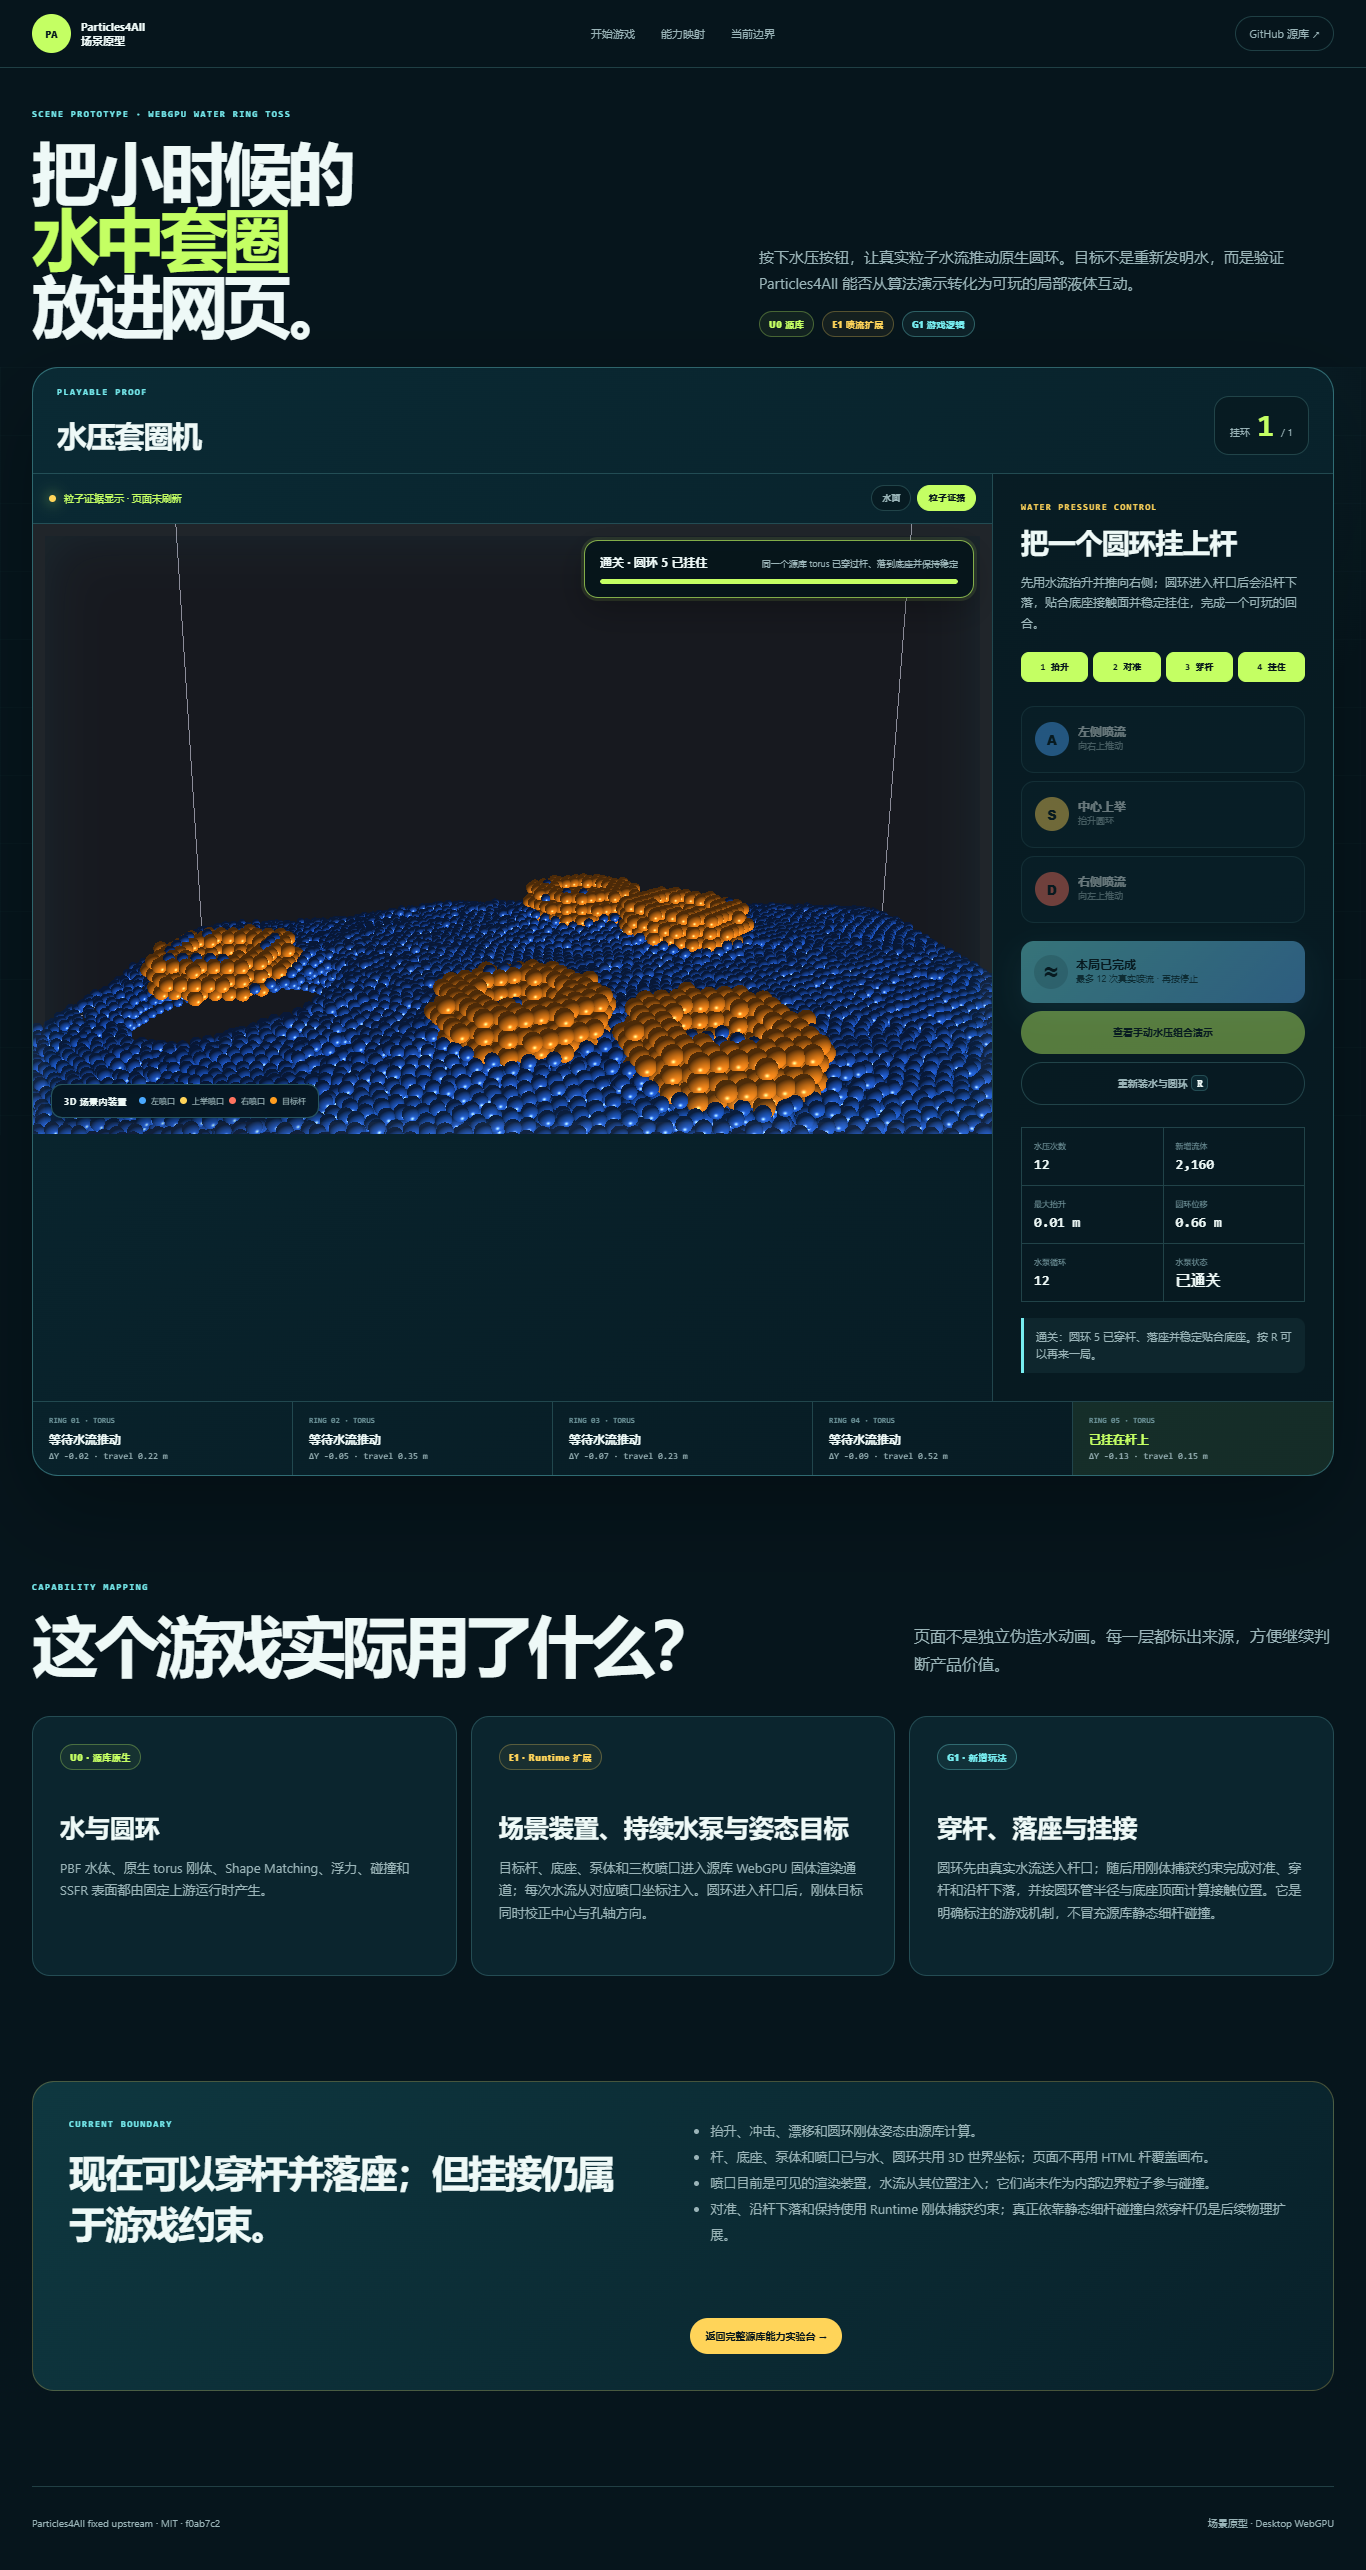
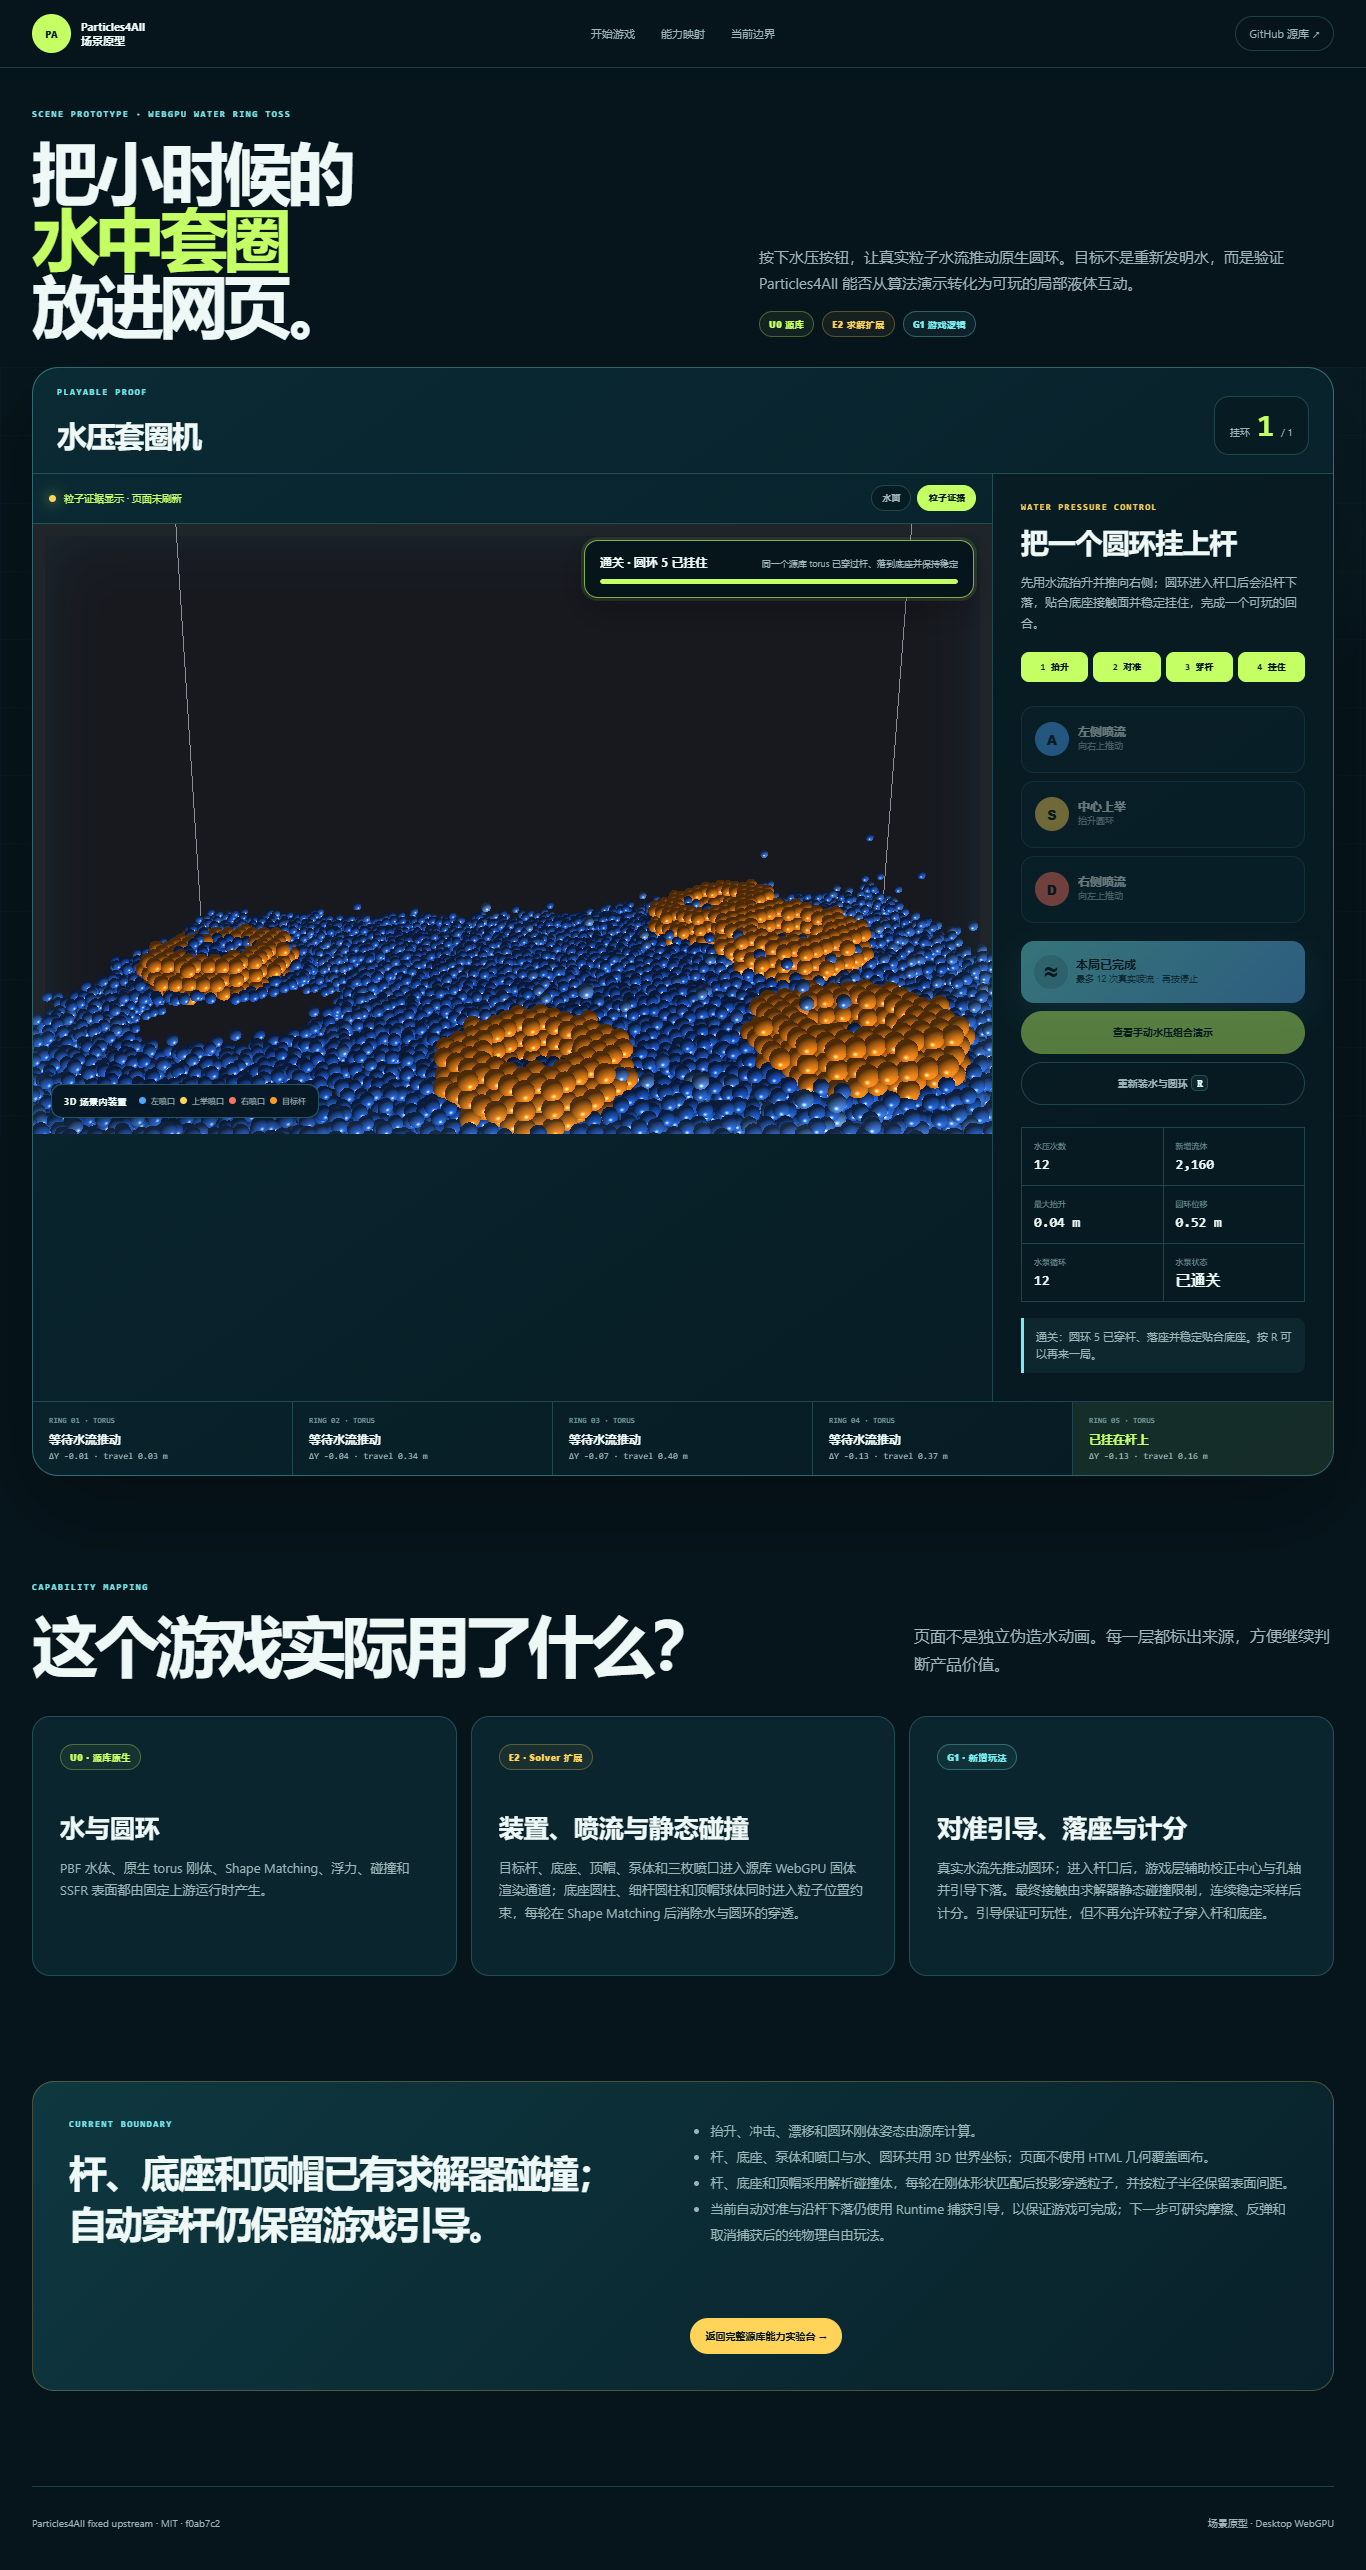
perf: optimize water ring rendering and simulation

diff --git a/docs/demos/particles4all/engine/src/ssfr_composite_wgsl.js b/docs/demos/particles4all/engine/src/ssfr_composite_wgsl.js
@@ -115,7 +115,7 @@ fn traceBodies(ro: vec3f, rd: vec3f, tMax: f32) -> BodyTrace {
   o.col = vec3f(0.8);
   if (C.bodyCount == 0) { return o; }
   var t = 1.0e-4;
-  for (var i = 0; i < 128; i++) {
+  for (var i = 0; i < 96; i++) {
     let p = ro + rd * t;
     let s = bodyScene(p);
     if (s.dist < 5.0e-5) {
@@ -287,7 +287,20 @@ fn fs(in: VsOut) -> @location(0) vec4f {
   let bodyInFront = tBody < length(p - ro);
 
   if (isEmptyZ(z) || bodyInFront) {
-    return vec4f(tonemap(sceneColor(ro, rd)), 1.0);
+    // bodyDepth already proved whether this camera ray can hit a solid. Avoid
+    // repeating an expensive SDF march for sky/floor pixels, which dominate
+    // the frame. Only reconstruct shading for pixels with a finite body hit.
+    if (tBody > 1.0e29) {
+      return vec4f(tonemap(background(ro, rd)), 1.0);
+    }
+    let front = traceBodies(ro, rd, min(60.0, tBody + 0.02));
+    if (front.t < 0.0) {
+      return vec4f(tonemap(background(ro, rd)), 1.0);
+    }
+    let frontP = ro + rd * front.t;
+    let frontCol = shadeBody(frontP, front.nrm, front.col, rd,
+      background(frontP + front.nrm * 1.0e-4, reflect(rd, front.nrm)));
+    return vec4f(tonemap(frontCol), 1.0);
   }
 
   let px = 2.0 / vec2f(lim);
@@ -318,14 +331,18 @@ fn fs(in: VsOut) -> @location(0) vec4f {
   if (dot(refrDir, refrDir) < 1.0e-8) { refrDir = reflect(rd, n); }
 
   let ro2 = p + refrDir * 1.0e-3;
-  let st = traceBodies(ro2, refrDir, 60.0);
   var hitCol : vec3f;
-  if (st.t >= 0.0) {
-    let sp = ro2 + refrDir * st.t;
-    hitCol = shadeBody(sp, st.nrm, st.col, refrDir, envReflect(reflect(refrDir, st.nrm)));
-    thick = min(thick, st.t);
-  } else {
-    hitCol = background(ro2, refrDir);
+  hitCol = background(ro2, refrDir);
+  // A refracted solid is only plausible when the body-depth prepass found a
+  // solid behind this water pixel. This rejects the majority of water pixels
+  // before the second SDF march while preserving submerged rings/apparatus.
+  if (tBody < 1.0e29) {
+    let st = traceBodies(ro2, refrDir, 60.0);
+    if (st.t >= 0.0) {
+      let sp = ro2 + refrDir * st.t;
+      hitCol = shadeBody(sp, st.nrm, st.col, refrDir, envReflect(reflect(refrDir, st.nrm)));
+      thick = min(thick, st.t);
+    }
   }
   let trans = hitCol * exp(-C.absorb * thick);
 

diff --git a/docs/demos/particles4all/engine/src/sim.js b/docs/demos/particles4all/engine/src/sim.js
@@ -451,7 +451,11 @@ export class Sim {
     const dtTarget = (1 / 60) / base;
     this.timeBank = (this.timeBank || 0) + frameDt;
     let sub = Math.floor(this.timeBank / dtTarget + 1e-4);
-    const workCap = base * 8;
+    // Do not let a slow render frame create a simulation death spiral. Two
+    // frames of fixed-step debt preserve real-time motion down to ~30 fps;
+    // below that, excess debt is dropped instead of multiplying GPU work.
+    const catchUpFrames = Math.max(1, Math.min(8, p.maxCatchUpFrames ?? 2));
+    const workCap = base * catchUpFrames;
     if (sub > workCap) { sub = workCap; this.timeBank = 0; }
     else { this.timeBank -= sub * dtTarget; }
 

diff --git a/docs/demos/particles4all/water-ring-game/app.js b/docs/demos/particles4all/water-ring-game/app.js
@@ -51,8 +51,9 @@ let pumpToken = 0;
 function engineUrl() {
   const params = new URLSearchParams({
     preset: 'small', view: state.view, particles: '14000', body: source.bodies, bodysize: '0.078',
-    radius: '0.42', speedmax: '6', timescale: '0.82', tension: '0.55', ssfrscale: '0.45',
-    ssfrradius: '0.72', timing: '0', game: 'water-ring', generation: String(state.generation)
+    radius: '0.42', speedmax: '6', timescale: '0.82', tension: '0.55',
+    substeps: '1', iters: '3', ssfrscale: '0.32', ssfrradius: '0.72',
+    timing: '0', game: 'water-ring', generation: String(state.generation)
   });
   return `${source.runtime}?${params}`;
 }

diff --git a/projects/particles4all/WATER_RING_GAME.md b/projects/particles4all/WATER_RING_GAME.md
@@ -33,6 +33,11 @@
 15. 穿杆后的圆环必须按 torus 管半径落到底座顶面，杆仍须位于圆环孔内；连续两个落座采样稳定后才可显示通关，禁止悬空或穿入底座。
 16. 底座、杆和顶帽必须在每轮 Shape Matching 后参与粒子位置约束；GPU 回读中，挂环的刚体粒子进入三个扩张碰撞体内部的数量必须均为 0。
 17. 碰撞 WGSL 必须只使用核心语言能力，不得依赖可选的 `swizzle_assignment`，确保严格实现基础 WGSL 的浏览器也能创建计算管线。
+18. 套圈场景采用平衡性能档：1 个物理子步、3 次约束迭代、0.32 SSFR 比例、最多 2 帧追帧债务；不得恢复为会触发持续补算的重负载默认值。
+
+## 性能优化基线
+
+在 980×650、14,980 粒子的同一 WebGPU 场景中，优化前 SSFR 约为 15 FPS，优化后平衡档约为 44 FPS。关键变化是：固体深度预判排除无命中的全屏 SDF 追踪、只在可能看到水下固体时执行折射追踪、Ray March 上限由 128 降为 96，以及将物理追帧债务限制为 2 帧。粒子数量和求解器静态碰撞保持不变。
 
 ## 下一 Gate
 
